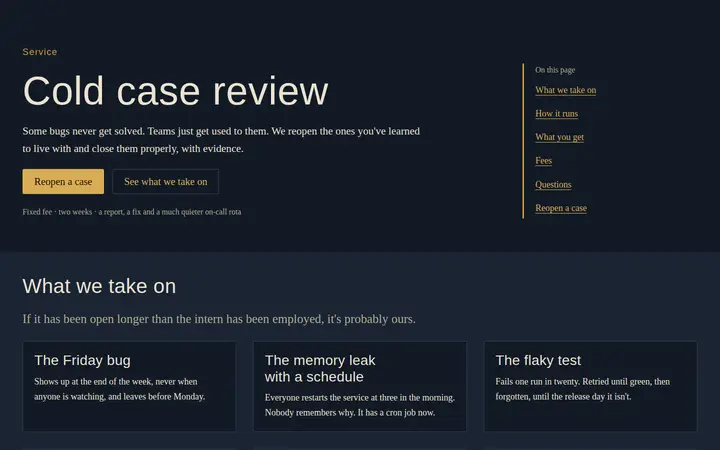
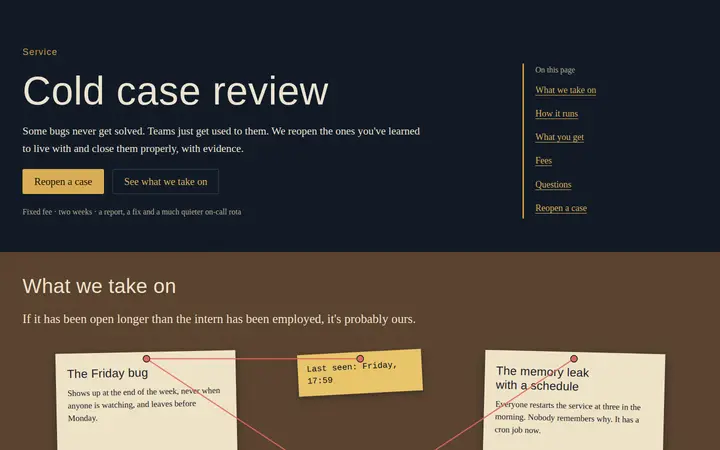
Service page: evidence board, 14-day timeline and a case-intake form
- What we take on: cards pinned to a cork board with red threads to the prime
  suspect; thread ends are computed in rem, so they meet the pins on every
  screen within a regime; on phones the board becomes a stack
- How it runs: a two-week strip with phases as bars of their real length
- Reopen a case: form SB-7 on paper, typewriter fields on ruled lines, tick
  boxes, a rubber-stamp submit and a status stamp that turns to Ready to file
  when the form is valid (:valid, no script)
- deco theme: card paper, card ink and cork tokens

diff --git a/templates/service.html b/templates/service.html
@@ -51,19 +51,33 @@
       <div class="stack">
         <h2>What we take on</h2>
         <p class="sv-intro">If it has been open longer than the intern has been employed, it's probably ours.</p>
-        <div class="grid grid-3"><article class="card stack-small"><h3>The Friday bug</h3><p>Shows up at the end of the week, never when anyone is watching, and leaves before Monday.</p></article><article class="card stack-small"><h3>The memory leak with a schedule</h3><p>Everyone restarts the service at three in the morning. Nobody remembers why. It has a cron job now.</p></article><article class="card stack-small"><h3>The flaky test</h3><p>Fails one run in twenty. Retried until green, then forgotten, until the release day it isn't.</p></article><article class="card stack-small"><h3>The ghost complaint</h3><p>Customers report it, support confirms it, engineering can't reproduce it. Everyone is telling the truth.</p></article><article class="card stack-small"><h3>The page that was always slow</h3><p>So slow for so long that it became the baseline. We bring a stopwatch and no respect for tradition.</p></article><article class="card stack-small"><h3>The workaround with a wiki page</h3><p>A fix so temporary it now has documentation, an owner and a birthday.</p></article></div>
+        <div class="eb" aria-label="Evidence board: six kinds of cold case pinned around their usual cause">
+          <article class="eb-card" style="--r: 1; --c: 1"><h3>The Friday bug</h3><p>Shows up at the end of the week, never when anyone is watching, and leaves before Monday.</p></article><article class="eb-card" style="--r: 1; --c: 3"><h3>The memory leak with a schedule</h3><p>Everyone restarts the service at three in the morning. Nobody remembers why. It has a cron job now.</p></article><article class="eb-card" style="--r: 2; --c: 1"><h3>The flaky test</h3><p>Fails one run in twenty. Retried until green, then forgotten, until the release day it isn't.</p></article><article class="eb-card" style="--r: 2; --c: 3"><h3>The ghost complaint</h3><p>Customers report it, support confirms it, engineering can't reproduce it. Everyone is telling the truth.</p></article><article class="eb-card" style="--r: 3; --c: 1"><h3>The page that was always slow</h3><p>So slow for so long it became the baseline. We bring a stopwatch and no respect for tradition.</p></article><article class="eb-card" style="--r: 3; --c: 3"><h3>The workaround with a wiki page</h3><p>A fix so temporary it now has documentation, an owner and a birthday.</p></article>
+          <article class="eb-card eb-culprit" style="--r: 2; --c: 2"><p class="eb-tag">Prime suspect</p><h3>A decision nobody remembers making</h3><p>Usually not the code itself, but a choice kept alive because everyone was too busy to question it.</p></article>
+          <p class="eb-note" style="--r: 1; --c: 2">Last seen: Friday, 17:59</p>
+          <p class="eb-note eb-note-b" style="--r: 3; --c: 2">Witness: the intern. Says nothing. Knows everything.</p>
+          <svg class="eb-strings desktop-only" viewBox="0 0 108 70" aria-hidden="true"><g class="eb-thread"><line x1="16" y1="1.2" x2="54" y2="26.2"/><line x1="92" y1="1.2" x2="54" y2="26.2"/><line x1="16" y1="26.2" x2="54" y2="26.2"/><line x1="92" y1="26.2" x2="54" y2="26.2"/><line x1="16" y1="51.2" x2="54" y2="43.8"/><line x1="92" y1="51.2" x2="54" y2="43.8"/><line x1="54" y1="1.2" x2="16" y2="1.2"/><line x1="54" y1="51.2" x2="92" y2="51.2"/></g><g class="eb-pin"><circle cx="16" cy="1.2" r=".6"/><circle cx="92" cy="1.2" r=".6"/><circle cx="16" cy="26.2" r=".6"/><circle cx="92" cy="26.2" r=".6"/><circle cx="16" cy="51.2" r=".6"/><circle cx="92" cy="51.2" r=".6"/><circle cx="54" cy="26.2" r=".6"/><circle cx="54" cy="1.2" r=".6"/><circle cx="54" cy="51.2" r=".6"/><circle cx="54" cy="43.8" r=".6"/></g></svg>
+        </div>
       </div>
     </section>
 
     <section class="section anchor" id="process">
       <div class="stack">
         <h2>How it runs</h2>
-        <ol class="sb-steps sv-steps">
-          <li><h3>Day 1 · The briefing</h3><p>Bring everything: logs, tickets, the chat thread from two years ago and the colleague who says it works on their machine. Especially them.</p></li>
-          <li><h3>Days 2–8 · The legwork</h3><p>We reproduce the problem before we touch it. Traces, timelines, a few uncomfortable questions for the codebase. Sometimes the bug confesses early. Usually it needs time.</p></li>
-          <li><h3>Days 9–12 · The fix</h3><p>One change at a time, each with a test, so everyone knows which one mattered. No heroic rewrites, no new framework. Well, not that kind.</p></li>
-          <li><h3>Days 13–14 · The handover</h3><p>A short report your whole team can read, a walkthrough call and a list of the next three suspects, in case you want to keep going.</p></li>
+        <div class="tl" role="img" aria-label="Fourteen days: day 1 briefing, days 2 to 8 legwork, days 9 to 12 the fix, days 13 and 14 handover">
+          <span class="tl-day">1</span><span class="tl-day">2</span><span class="tl-day">3</span><span class="tl-day">4</span><span class="tl-day">5</span><span class="tl-day is-weekend">6</span><span class="tl-day is-weekend">7</span><span class="tl-day">8</span><span class="tl-day">9</span><span class="tl-day">10</span><span class="tl-day">11</span><span class="tl-day">12</span><span class="tl-day is-weekend">13</span><span class="tl-day is-weekend">14</span>
+          <span class="tl-bar tl-1" style="grid-column: 1 / 2">1</span>
+          <span class="tl-bar tl-2" style="grid-column: 2 / 9">2</span>
+          <span class="tl-bar tl-3" style="grid-column: 9 / 13">3</span>
+          <span class="tl-bar tl-4" style="grid-column: 13 / 15">4</span>
+        </div>
+        <ol class="tl-phases">
+          <li><h3><span class="tl-key tl-1"></span>Day 1 · The briefing</h3><p>Bring everything: logs, tickets, the chat thread from two years ago and the colleague who says it works on their machine. Especially them.</p></li>
+          <li><h3><span class="tl-key tl-2"></span>Days 2–8 · The legwork</h3><p>We reproduce the problem before we touch it. Traces, timelines, a few uncomfortable questions for the codebase. Half the job, and it shows on the calendar.</p></li>
+          <li><h3><span class="tl-key tl-3"></span>Days 9–12 · The fix</h3><p>One change at a time, each with a test, so everyone knows which one mattered. No heroic rewrites.</p></li>
+          <li><h3><span class="tl-key tl-4"></span>Days 13–14 · The handover</h3><p>A short report, a walkthrough call and the next three suspects, in case you want to keep going.</p></li>
         </ol>
+        <p class="small muted">Shaded days are weekends. The detective rests; cold cases, famously, don't.</p>
       </div>
     </section>
 
@@ -108,7 +122,8 @@
     </section>
 
     <section class="section anchor" id="reopen">
-      <div class="sv-form-wrap stack">
+      <div class="sv-intake stack">
+        <header class="in-head"><p>Slowburn · Bug investigations</p><p>Form SB-7 · Case intake</p></header>
         <h2>Reopen a case</h2>
         <p>Tell us what keeps happening. We'll reply within a working day, slowly but thoroughly.</p>
         <form class="stack" action="#reopen">
@@ -121,7 +136,7 @@
             <input type="radio" name="age" id="age-y"><label for="age-y">Years</label>
             <input type="radio" name="age" id="age-n"><label for="age-n">Nobody remembers</label>
           </fieldset>
-          <button class="btn sb-big" type="submit">Reopen the case</button>
+          <div class="in-foot"><button class="in-submit" type="submit">File the case</button><p class="in-stamp" aria-hidden="true"><span class="in-pending">Incomplete</span><span class="in-ready">Ready to file</span></p></div>
         </form>
       </div>
     </section>

diff --git a/css/pages/service.css b/css/pages/service.css
@@ -7,18 +7,71 @@
   .sv-hero .lead { max-inline-size: 72rem; }
   .sv-nav { display: grid; gap: .6rem; padding-inline-start: 2rem; border-inline-start: .3rem solid var(--brass); }
   .sv-intro { font-size: 2.2rem; color: var(--muted); }
-  .sv-steps { display: grid; grid-template-columns: repeat(2, minmax(0, 1fr)); gap: 4rem 6rem; }
   .sv-report { display: grid; grid-template-columns: minmax(0, 5fr) minmax(0, 4fr) minmax(0, 3fr); gap: 4rem; align-items: center; }
   .sv-list { display: grid; gap: .8rem; padding-inline-start: 2.2rem; }
   .sv-sloth { display: block; inline-size: 100%; block-size: auto; }
   .sv-fees { max-inline-size: 90rem; }
-  .sv-form-wrap { max-inline-size: 84rem; }
+  #scope { background: radial-gradient(circle at 1rem 1rem, color-mix(in srgb, var(--card-ink) 18%, transparent) .15rem, transparent .2rem) 0 0 / 2.4rem 2.4rem, var(--cork); }
+  #scope h2, #scope .sv-intro { color: var(--card-paper); }
+  .eb { position: relative; display: grid; grid-template-columns: repeat(3, 32rem); grid-template-rows: repeat(3, 20rem); gap: 5rem 6rem; inline-size: 108rem; margin: 2rem auto 0; }
+  .eb > * { grid-area: var(--r) / var(--c); }
+  .eb-card { display: grid; align-content: start; gap: 1rem; padding: 2.4rem 2rem 2rem; background: var(--card-paper); color: var(--card-ink); box-shadow: 0 .6rem 1.4rem color-mix(in srgb, var(--city) 45%, transparent); transform: rotate(-1.2deg); }
+  .eb-card:nth-of-type(even) { transform: rotate(1.4deg); }
+  .eb-card h3 { font-size: 2.1rem; line-height: 1.2; }
+  .eb-card p { font-size: 1.5rem; line-height: 1.5; }
+  .eb-culprit { outline: .3rem solid var(--stamp); outline-offset: -.9rem; transform: none; }
+  .eb-tag { font-family: var(--font-type, monospace); color: var(--stamp); letter-spacing: .12em; text-transform: uppercase; }
+  .eb-note { align-self: start; justify-self: center; inline-size: 22rem; padding: 1.6rem; background: var(--lit); color: var(--city); font-family: var(--font-type, monospace); font-size: 1.5rem; line-height: 1.4; transform: rotate(-3deg); box-shadow: 0 .4rem 1rem color-mix(in srgb, var(--city) 35%, transparent); }
+  .eb-note-b { transform: rotate(2.5deg); }
+  .eb-strings { position: absolute; z-index: 2; inset: 0; inline-size: 100%; block-size: 100%; pointer-events: none; }
+  .eb-thread { stroke: var(--stamp); stroke-width: .22; opacity: .85; }
+  .eb-pin { fill: var(--stamp); stroke: var(--city); stroke-width: .12; }
+
+  .tl { display: grid; grid-template-columns: repeat(14, minmax(0, 1fr)); gap: .6rem .4rem; margin-block-start: 1rem; }
+  .tl-day { padding-block: .6rem; border-radius: .3rem; background: var(--surface); color: var(--muted); font-size: var(--small-size); text-align: center; font-variant-numeric: tabular-nums; }
+  .tl-day.is-weekend { background: color-mix(in srgb, var(--surface) 50%, transparent); }
+  .tl-bar { grid-row: 2; display: grid; place-items: center; min-block-size: 4rem; border-radius: .4rem; color: var(--on-accent); font-family: var(--font-display, var(--font)); font-size: 2rem; }
+  .tl-1 { background: color-mix(in srgb, var(--brass) 60%, var(--paper)); }
+  .tl-2 { background: var(--brass); }
+  .tl-3 { background: var(--neon); }
+  .tl-4 { background: color-mix(in srgb, var(--neon) 55%, var(--paper)); }
+  .tl-phases { display: grid; grid-template-columns: repeat(4, minmax(0, 1fr)); gap: 3rem; margin: 2rem 0 0; padding: 0; list-style: none; }
+  .tl-phases h3 { display: flex; align-items: center; gap: 1rem; margin-block-end: .8rem; font-size: 2rem; }
+  .tl-key { inline-size: 1.6rem; block-size: 1.6rem; border-radius: .3rem; flex: none; }
+
+  .sv-intake { max-inline-size: 86rem; padding: 4rem 4.8rem 4.4rem; background: var(--card-paper); color: var(--card-ink); box-shadow: 0 1rem 3rem color-mix(in srgb, var(--city) 40%, transparent); }
+  .sv-intake h2 { font-size: 4rem; }
+  .in-head { display: flex; justify-content: space-between; gap: 2rem; padding-block-end: 1.2rem; border-block-end: .2rem solid var(--card-ink); font-family: var(--font-type, monospace); font-size: 1.3rem; letter-spacing: .08em; text-transform: uppercase; }
+  .sv-intake label, .sv-intake legend { font-family: var(--font-type, monospace); font-size: 1.4rem; letter-spacing: .04em; }
+  .sv-intake .field :is(input, textarea) { border: 0; border-block-end: .15rem solid color-mix(in srgb, var(--card-ink) 55%, transparent); border-radius: 0; background: transparent; color: var(--card-ink); font-family: var(--font-type, monospace); padding-inline: 0; }
+  .sv-intake .field textarea { line-height: 3rem; background: repeating-linear-gradient(transparent 0 2.85rem, color-mix(in srgb, var(--card-ink) 30%, transparent) 2.85rem 3rem); border-block-end: 0; }
+  .sv-intake .field-hint { color: color-mix(in srgb, var(--card-ink) 65%, transparent); }
+  .sv-intake .choice label { min-block-size: auto; padding: .4rem 1.6rem .4rem 0; border: 0; background: transparent; box-shadow: none; }
+  .sv-intake .choice label::before { content: ''; display: inline-grid; place-items: center; inline-size: 2rem; block-size: 2rem; border: .15rem solid var(--card-ink); font-size: 1.6rem; line-height: 1; }
+  .sv-intake .choice input:checked + label::before { content: '✕'; }
+  .in-foot { display: flex; flex-wrap: wrap; align-items: center; justify-content: space-between; gap: 2rem; margin-block-start: 1rem; }
+  .in-submit { padding: 1rem 2.4rem; border: .35rem solid var(--stamp); border-radius: .5rem; background: transparent; color: var(--stamp); font-family: var(--font-display, var(--font)); font-size: 2.4rem; letter-spacing: .12em; text-transform: uppercase; transform: rotate(-2deg); cursor: pointer; }
+  .in-submit:hover { background: color-mix(in srgb, var(--stamp) 10%, transparent); }
+  .in-stamp { padding: .8rem 1.6rem; border: .2rem dashed color-mix(in srgb, var(--card-ink) 45%, transparent); font-family: var(--font-type, monospace); font-size: 1.4rem; letter-spacing: .1em; text-transform: uppercase; color: color-mix(in srgb, var(--card-ink) 60%, transparent); transform: rotate(3deg); }
+  .in-ready, .sv-intake form:valid .in-pending { display: none; }
+  .sv-intake form:valid .in-ready { display: inline; color: var(--success); }
   @media (width <= 50em) {
     .sv-hero { grid-template-columns: minmax(0, 1fr); gap: 3rem; padding-block: 5rem 4rem; }
     .sv-hero h1 { font-size: 5rem; }
     .sv-nav { grid-template-columns: repeat(2, minmax(0, 1fr)); }
     .sv-nav p { grid-column: 1 / -1; }
-    .sv-steps { grid-template-columns: minmax(0, 1fr); }
+    .eb { grid-template-columns: minmax(0, 1fr); grid-template-rows: none; gap: 2.4rem; inline-size: auto; }
+    .eb > * { grid-area: auto; }
+    .eb-culprit { order: -1; }
+    .eb-note { justify-self: start; font-size: 1.9rem; inline-size: 30rem; }
+    .eb-card h3 { font-size: 2.6rem; }
+    .eb-card p { font-size: 2rem; }
+    .tl-day { font-size: 1.3rem; padding-block: .3rem; }
+    .tl-bar { min-block-size: 3rem; font-size: 1.6rem; }
+    .tl-phases { grid-template-columns: minmax(0, 1fr); gap: 2rem; }
+    .sv-intake { padding: 2.6rem 2.2rem 3rem; }
+    .sv-intake h2 { font-size: 3.4rem; }
+    .in-head { flex-direction: column; gap: .4rem; }
     .sv-report { grid-template-columns: minmax(0, 1fr); }
     .sv-sloth { inline-size: 60%; justify-self: center; }
   }

diff --git a/css/themes/deco.css b/css/themes/deco.css
@@ -1,12 +1,12 @@
 /* Deco theme: ink, brass and wet neon. Palette and type tokens only. Night scheme by default
    on dark systems; the day scheme reads like an old case file. */
 @layer theme {
-  :root { color-scheme: light; --font: "Iowan Old Style", "Palatino Linotype", Palatino, "Book Antiqua", Georgia, serif; --font-display: Futura, "Futura PT", "Century Gothic", "Avenir Next", "URW Gothic", sans-serif; --font-type: "American Typewriter", "Courier Prime", "Courier New", monospace; --line-height: 1.65; --radius: .3rem; --ink: #1f2633; --muted: #5a5648; --paper: #f2ead8; --surface: #e7dcc3; --line: #c8b48c; --accent: #7a4f10; --on-accent: #fff8e6; --brass: #b8892e; --brass-dark: #7a5a1c; --neon: #1f7a77; --stamp: #a3302a; --night: #1b2638; --sky: #24344c; --city: #131c2a; --lit: #e8c46a; --rain: #9fb7c9; --beam: color-mix(in srgb, #1f2633 12%, transparent); --error: #8c2f2a; --success: #2f6a3f; --utility-surface: #e2d6bb; --utility-line: #b9a57f; }
+  :root { color-scheme: light; --font: "Iowan Old Style", "Palatino Linotype", Palatino, "Book Antiqua", Georgia, serif; --font-display: Futura, "Futura PT", "Century Gothic", "Avenir Next", "URW Gothic", sans-serif; --font-type: "American Typewriter", "Courier Prime", "Courier New", monospace; --line-height: 1.65; --radius: .3rem; --ink: #1f2633; --muted: #5a5648; --paper: #f2ead8; --surface: #e7dcc3; --line: #c8b48c; --accent: #7a4f10; --on-accent: #fff8e6; --brass: #b8892e; --brass-dark: #7a5a1c; --neon: #1f7a77; --stamp: #a3302a; --night: #1b2638; --sky: #24344c; --city: #131c2a; --lit: #e8c46a; --rain: #9fb7c9; --beam: color-mix(in srgb, #1f2633 12%, transparent); --card-paper: #fbf4e2; --card-ink: #1f2633; --cork: #b48a55; --error: #8c2f2a; --success: #2f6a3f; --utility-surface: #e2d6bb; --utility-line: #b9a57f; }
   @media (prefers-color-scheme: dark) {
-    :root { color-scheme: dark; --ink: #ece3cf; --muted: #b5aa91; --paper: #121a26; --surface: #1a2433; --line: #3a4559; --accent: #d9ad55; --on-accent: #1b1408; --brass: #c9993d; --brass-dark: #7d5c1d; --neon: #6fc9c4; --stamp: #e0675e; --night: #0d131d; --sky: #1c2a40; --city: #0b111b; --lit: #e8c46a; --rain: #8fa8bc; --beam: color-mix(in srgb, #e8c46a 8%, transparent); --error: #ffb4ab; --success: #9fd7ae; --utility-surface: #1f2b3c; --utility-line: #4a5870; }
+    :root { color-scheme: dark; --ink: #ece3cf; --muted: #b5aa91; --paper: #121a26; --surface: #1a2433; --line: #3a4559; --accent: #d9ad55; --on-accent: #1b1408; --brass: #c9993d; --brass-dark: #7d5c1d; --neon: #6fc9c4; --stamp: #e0675e; --night: #0d131d; --sky: #1c2a40; --city: #0b111b; --lit: #e8c46a; --rain: #8fa8bc; --beam: color-mix(in srgb, #e8c46a 8%, transparent); --card-paper: #efe3c6; --card-ink: #1b2230; --cork: #5a4330; --error: #ffb4ab; --success: #9fd7ae; --utility-surface: #1f2b3c; --utility-line: #4a5870; }
   }
-  :root[data-scheme=light] { color-scheme: light; --ink: #1f2633; --muted: #5a5648; --paper: #f2ead8; --surface: #e7dcc3; --line: #c8b48c; --accent: #7a4f10; --on-accent: #fff8e6; --brass: #b8892e; --brass-dark: #7a5a1c; --neon: #1f7a77; --stamp: #a3302a; --night: #1b2638; --sky: #24344c; --city: #131c2a; --lit: #e8c46a; --rain: #9fb7c9; --beam: color-mix(in srgb, #1f2633 12%, transparent); --error: #8c2f2a; --success: #2f6a3f; --utility-surface: #e2d6bb; --utility-line: #b9a57f; }
-  :root[data-scheme=dark] { color-scheme: dark; --ink: #ece3cf; --muted: #b5aa91; --paper: #121a26; --surface: #1a2433; --line: #3a4559; --accent: #d9ad55; --on-accent: #1b1408; --brass: #c9993d; --brass-dark: #7d5c1d; --neon: #6fc9c4; --stamp: #e0675e; --night: #0d131d; --sky: #1c2a40; --city: #0b111b; --lit: #e8c46a; --rain: #8fa8bc; --beam: color-mix(in srgb, #e8c46a 8%, transparent); --error: #ffb4ab; --success: #9fd7ae; --utility-surface: #1f2b3c; --utility-line: #4a5870; }
+  :root[data-scheme=light] { color-scheme: light; --ink: #1f2633; --muted: #5a5648; --paper: #f2ead8; --surface: #e7dcc3; --line: #c8b48c; --accent: #7a4f10; --on-accent: #fff8e6; --brass: #b8892e; --brass-dark: #7a5a1c; --neon: #1f7a77; --stamp: #a3302a; --night: #1b2638; --sky: #24344c; --city: #131c2a; --lit: #e8c46a; --rain: #9fb7c9; --beam: color-mix(in srgb, #1f2633 12%, transparent); --card-paper: #fbf4e2; --card-ink: #1f2633; --cork: #b48a55; --error: #8c2f2a; --success: #2f6a3f; --utility-surface: #e2d6bb; --utility-line: #b9a57f; }
+  :root[data-scheme=dark] { color-scheme: dark; --ink: #ece3cf; --muted: #b5aa91; --paper: #121a26; --surface: #1a2433; --line: #3a4559; --accent: #d9ad55; --on-accent: #1b1408; --brass: #c9993d; --brass-dark: #7d5c1d; --neon: #6fc9c4; --stamp: #e0675e; --night: #0d131d; --sky: #1c2a40; --city: #0b111b; --lit: #e8c46a; --rain: #8fa8bc; --beam: color-mix(in srgb, #e8c46a 8%, transparent); --card-paper: #efe3c6; --card-ink: #1b2230; --cork: #5a4330; --error: #ffb4ab; --success: #9fd7ae; --utility-surface: #1f2b3c; --utility-line: #4a5870; }
   @media print {
     :root, :root[data-scheme] { color-scheme: light; --paper: #fff; --ink: #000; --muted: #333; }
   }
